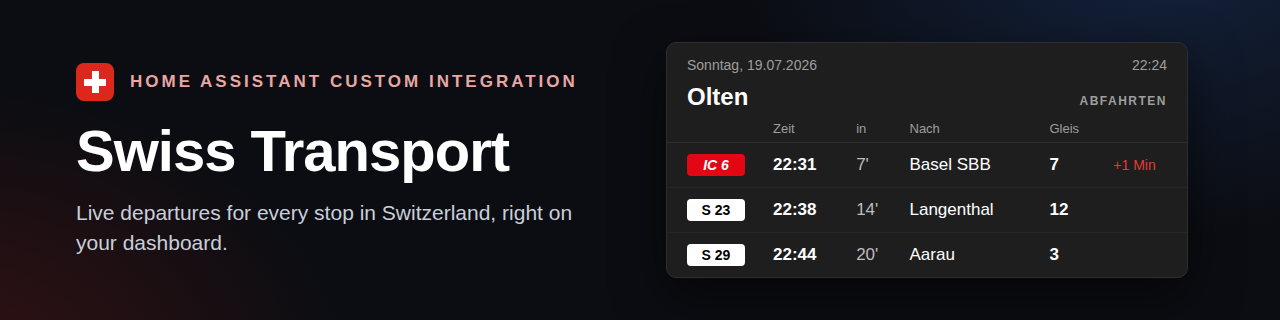
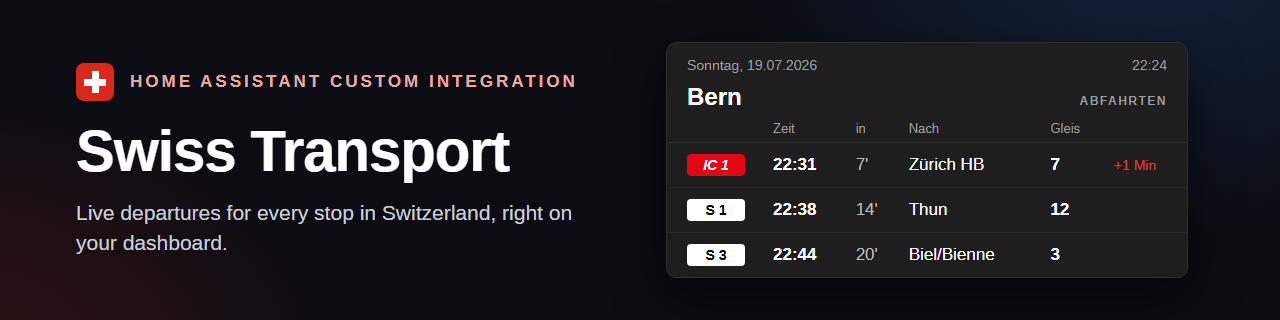
README header and examples refreshed

diff --git a/docs/readme-header-source.html b/docs/readme-header-source.html
@@ -25,12 +25,12 @@
   </div>
   <div class="card">
     <div class="meta"><span>Sonntag, 19.07.2026</span><span>22:24</span></div>
-    <div class="head"><span class="station">Olten</span><span class="type">ABFAHRTEN</span></div>
+    <div class="head"><span class="station">Bern</span><span class="type">ABFAHRTEN</span></div>
     <table>
       <tr><th class="col-badge"></th><th>Zeit</th><th>in</th><th>Nach</th><th>Gleis</th><th></th></tr>
-      <tr><td class="col-badge"><span class="badge b-ic">IC 6</span></td><td class="t-zeit">22:31</td><td class="t-in">7'</td><td>Basel SBB</td><td class="t-gleis">7</td><td class="hint">+1 Min</td></tr>
-      <tr><td class="col-badge"><span class="badge b-s">S 23</span></td><td class="t-zeit">22:38</td><td class="t-in">14'</td><td>Langenthal</td><td class="t-gleis">12</td><td></td></tr>
-      <tr><td class="col-badge"><span class="badge b-s">S 29</span></td><td class="t-zeit">22:44</td><td class="t-in">20'</td><td>Aarau</td><td class="t-gleis">3</td><td></td></tr>
+      <tr><td class="col-badge"><span class="badge b-ic">IC 1</span></td><td class="t-zeit">22:31</td><td class="t-in">7'</td><td>Zürich HB</td><td class="t-gleis">7</td><td class="hint">+1 Min</td></tr>
+      <tr><td class="col-badge"><span class="badge b-s">S 1</span></td><td class="t-zeit">22:38</td><td class="t-in">14'</td><td>Thun</td><td class="t-gleis">12</td><td></td></tr>
+      <tr><td class="col-badge"><span class="badge b-s">S 3</span></td><td class="t-zeit">22:44</td><td class="t-in">20'</td><td>Biel/Bienne</td><td class="t-gleis">3</td><td></td></tr>
     </table>
   </div>
 </body></html>

diff --git a/tests/test_config_flow.py b/tests/test_config_flow.py
@@ -25,7 +25,7 @@ from custom_components.swiss_transport.const import (
 from custom_components.swiss_transport.coordinator import OjpAuthError
 
 STATIONS = {
-    "olten": [{"id": "8500218", "name": "Olten"}, {"id": "8500219", "name": "Olten Hammer"}],
+    "luzern": [{"id": "8505000", "name": "Luzern"}, {"id": "8505001", "name": "Luzern Verkehrshaus"}],
     "bern": [{"id": "8507000", "name": "Bern"}],
     "chur": [{"id": "8509000", "name": "Chur"}],
 }
@@ -46,18 +46,18 @@ async def test_departure_board_setup(hass: HomeAssistant, enable_custom_integrat
     assert result["step_id"] == "user"
     result = await hass.config_entries.flow.async_configure(result["flow_id"], {"mode": "station"})
     assert result["step_id"] == "station"
-    result = await hass.config_entries.flow.async_configure(result["flow_id"], {"query": "Olten"})
+    result = await hass.config_entries.flow.async_configure(result["flow_id"], {"query": "Luzern"})
     assert result["step_id"] == "pick"
     result = await hass.config_entries.flow.async_configure(
-        result["flow_id"], {CONF_STATION_ID: "8500218", CONF_LIMIT: 5, "transportations": ["train"], "ojp_token": ""}
+        result["flow_id"], {CONF_STATION_ID: "8505000", CONF_LIMIT: 5, "transportations": ["train"], "ojp_token": ""}
     )
     assert result["type"] is FlowResultType.CREATE_ENTRY
     assert result["data"][CONF_ENTRY_TYPE] == ENTRY_TYPE_STATION
-    assert result["data"][CONF_STATION_ID] == "8500218"
-    assert result["data"][CONF_STATION_NAME] == "Olten"
+    assert result["data"][CONF_STATION_ID] == "8505000"
+    assert result["data"][CONF_STATION_NAME] == "Luzern"
     assert result["data"][CONF_LIMIT] == 5
     assert "ojp_token" not in result["data"]
-    assert result["result"].unique_id == "station_8500218"
+    assert result["result"].unique_id == "station_8505000"
 
 
 async def test_no_station_found_shows_error(hass: HomeAssistant, enable_custom_integrations, fake_search) -> None:
@@ -72,22 +72,22 @@ async def test_no_station_found_shows_error(hass: HomeAssistant, enable_custom_i
 async def test_rejected_realtime_token_is_a_form_error(hass: HomeAssistant, enable_custom_integrations, fake_search) -> None:
     result = await hass.config_entries.flow.async_init(DOMAIN, context={"source": config_entries.SOURCE_USER})
     result = await hass.config_entries.flow.async_configure(result["flow_id"], {"mode": "station"})
-    result = await hass.config_entries.flow.async_configure(result["flow_id"], {"query": "Olten"})
+    result = await hass.config_entries.flow.async_configure(result["flow_id"], {"query": "Luzern"})
     with patch("custom_components.swiss_transport.config_flow.async_validate_ojp_token", side_effect=OjpAuthError(401)):
         result = await hass.config_entries.flow.async_configure(
-            result["flow_id"], {CONF_STATION_ID: "8500218", CONF_LIMIT: 5, "transportations": [], "ojp_token": "bad-token"}
+            result["flow_id"], {CONF_STATION_ID: "8505000", CONF_LIMIT: 5, "transportations": [], "ojp_token": "bad-token"}
         )
     assert result["type"] is FlowResultType.FORM
     assert result["errors"] == {"base": "invalid_auth"}
 
 
 async def test_same_station_twice_is_refused(hass: HomeAssistant, enable_custom_integrations, fake_search) -> None:
-    MockConfigEntry(domain=DOMAIN, unique_id="station_8500218", title="Olten", data={CONF_ENTRY_TYPE: ENTRY_TYPE_STATION, CONF_STATION_ID: "8500218"}).add_to_hass(hass)
+    MockConfigEntry(domain=DOMAIN, unique_id="station_8505000", title="Luzern", data={CONF_ENTRY_TYPE: ENTRY_TYPE_STATION, CONF_STATION_ID: "8505000"}).add_to_hass(hass)
     result = await hass.config_entries.flow.async_init(DOMAIN, context={"source": config_entries.SOURCE_USER})
     result = await hass.config_entries.flow.async_configure(result["flow_id"], {"mode": "station"})
-    result = await hass.config_entries.flow.async_configure(result["flow_id"], {"query": "Olten"})
+    result = await hass.config_entries.flow.async_configure(result["flow_id"], {"query": "Luzern"})
     result = await hass.config_entries.flow.async_configure(
-        result["flow_id"], {CONF_STATION_ID: "8500218", CONF_LIMIT: 5, "transportations": [], "ojp_token": ""}
+        result["flow_id"], {CONF_STATION_ID: "8505000", CONF_LIMIT: 5, "transportations": [], "ojp_token": ""}
     )
     assert result["type"] is FlowResultType.ABORT
     assert result["reason"] == "already_configured"
@@ -111,8 +111,8 @@ async def test_connection_setup(hass: HomeAssistant, enable_custom_integrations,
 
 async def test_reconfigure_moves_the_board_to_another_stop(hass: HomeAssistant, enable_custom_integrations, fake_search) -> None:
     entry = MockConfigEntry(
-        domain=DOMAIN, unique_id="station_8500218", title="Olten",
-        data={CONF_ENTRY_TYPE: ENTRY_TYPE_STATION, CONF_STATION_ID: "8500218", CONF_STATION_NAME: "Olten", CONF_LIMIT: 5, "transportations": []},
+        domain=DOMAIN, unique_id="station_8505000", title="Luzern",
+        data={CONF_ENTRY_TYPE: ENTRY_TYPE_STATION, CONF_STATION_ID: "8505000", CONF_STATION_NAME: "Luzern", CONF_LIMIT: 5, "transportations": []},
         options={CONF_LIMIT: 8},
     )
     entry.add_to_hass(hass)

diff --git a/tests/test_coordinator.py b/tests/test_coordinator.py
@@ -68,7 +68,7 @@ def test_connection_legs_and_changes():
         "duration": "00d01:30:00", "transfers": 1, "products": ["IC 8", "S 9"],
         "sections": [
             {"journey": {"category": "IC", "number": "8", "to": "Zürich HB"},
-             "departure": {"station": {"name": "Olten"}, "platform": "4"}, "arrival": {"station": {"name": "Zürich HB"}, "platform": "33"}},
+             "departure": {"station": {"name": "Luzern"}, "platform": "4"}, "arrival": {"station": {"name": "Zürich HB"}, "platform": "33"}},
             {"journey": None, "walk": {"duration": 300}},
             {"journey": {"category": "S", "number": "9", "to": "Uster"},
              "departure": {"station": {"name": "Zürich HB"}, "platform": "43"}, "arrival": {"station": {"name": "Uster"}, "platform": "2"}},
@@ -100,7 +100,7 @@ OJP_XML = """<?xml version="1.0" encoding="UTF-8"?>
  <OJPResponse><siri:ServiceDelivery><OJPStopEventDelivery>
   <PtSituation><siri:Summary>x</siri:Summary>
     <siri:PassengerInformationAction><siri:TextualContent><siri:SummaryContent>
-      <siri:SummaryText>Olten: Gleisänderung wegen Bauarbeiten</siri:SummaryText>
+      <siri:SummaryText>Luzern: Gleisänderung wegen Bauarbeiten</siri:SummaryText>
     </siri:SummaryContent></siri:TextualContent></siri:PassengerInformationAction>
   </PtSituation>
   <StopEventResult><StopEvent>
@@ -123,7 +123,7 @@ OJP_XML = """<?xml version="1.0" encoding="UTF-8"?>
 
 def test_ojp_stationboard_parser():
     ojp = _parse_ojp_stationboard(OJP_XML)
-    assert ojp["alerts"] == ["Olten: Gleisänderung wegen Bauarbeiten"]
+    assert ojp["alerts"] == ["Luzern: Gleisänderung wegen Bauarbeiten"]
     planned = _ojp_iso_to_ts("2026-11-09T06:12:00Z")
     events = ojp["events"][planned]
     assert len(events) == 2
@@ -150,7 +150,7 @@ def test_ojp_overlay_matches_by_time_and_destination():
     assert basel["cancelled"] is True and basel["platform"] == "3"
     assert "cancelled" not in bern  # no real-time row for it
     assert board["realtime"] is True
-    assert board["alerts"] == ["Olten: Gleisänderung wegen Bauarbeiten"]
+    assert board["alerts"] == ["Luzern: Gleisänderung wegen Bauarbeiten"]
 
 
 def test_rate_limit_backoff_only_on_429():

diff --git a/custom_components/swiss_transport/coordinator.py b/custom_components/swiss_transport/coordinator.py
@@ -43,7 +43,7 @@ _GEOCODE_HEADERS = {"User-Agent": "ha-swiss-transport (Home Assistant integratio
 
 async def async_reverse_geocode(hass: HomeAssistant, lat: float, lon: float) -> str | None:
     """Resolve a station's coordinates to a short human address
-    ('Tannwaldstrasse, 4600 Olten') via OpenStreetMap Nominatim. Called at
+    ('Hirschengraben, 3011 Bern') via OpenStreetMap Nominatim. Called at
     most once per station (cached in the coordinator), so it stays well
     within Nominatim's usage policy. Returns None on any failure — the card
     simply omits the line then."""

diff --git a/README.md b/README.md
@@ -32,7 +32,7 @@ When you add the integration you first choose a **mode** — a departure board o
 |---|---|---|
 | `sensor.swiss_transport_<from>_<to>_<tag>` | Sensor | State = the next connection's departure (timestamp). Attributes: `connections` (each with departure/arrival time and platform, delay, `duration_min`, `transfers`, the `products`/lines used, and `changes` — the transfer stations with arrival → onward platform), `connection_count`, from/to names and station ids. |
 
-`<station>`, `<from>` and `<to>` are the stop names as the timetable API returns them, slugified; `<tag>` is a short discriminator — the last four characters of the config entry id, lower-cased — that keeps two stops whose names slugify to the same text apart (say the railway station "Zürich HB" and a tram stop "Zürich, HB"). The board of Zürich HB is thus something like `sensor.swiss_transport_zurich_hb_k7q2`, the connection Olten → Zürich HB `sensor.swiss_transport_olten_zurich_hb_m3xz`. The integration suggests these object ids when an entity is first created, so they do not depend on your Home Assistant language — only the entity's displayed name ("Departures" / "Abfahrten") is localized. Entities created by versions before 1.4.0 keep the ids they have (without the tag). Like any entity, they can be renamed in the entity settings afterwards.
+`<station>`, `<from>` and `<to>` are the stop names as the timetable API returns them, slugified; `<tag>` is a short discriminator — the last four characters of the config entry id, lower-cased — that keeps two stops whose names slugify to the same text apart (say the railway station "Zürich HB" and a tram stop "Zürich, HB"). The board of Zürich HB is thus something like `sensor.swiss_transport_zurich_hb_k7q2`, the connection Bern → Zürich HB `sensor.swiss_transport_bern_zurich_hb_m3xz`. The integration suggests these object ids when an entity is first created, so they do not depend on your Home Assistant language — only the entity's displayed name ("Departures" / "Abfahrten") is localized. Entities created by versions before 1.4.0 keep the ids they have (without the tag). Like any entity, they can be renamed in the entity settings afterwards.
 
 Station boards refresh about every 90 seconds. Saved connections refresh every 5 minutes — the transport.opendata.ch API allows only 1000 connection queries per day, and the slower cadence keeps several saved routes comfortably within that quota. If the API ever answers with "too many requests" (HTTP 429), the affected entry pauses for 30 minutes and then resumes automatically.
 
@@ -69,7 +69,7 @@ mode_entity: select.swiss_transport_mode        # optional, follow timetable bro
 ```yaml
 type: custom:swiss-transport-connection-card
 entity: sensor.swiss_transport_<from>_<to>_<tag>
-title: Olten → Zürich HB   # optional
+title: Bern → Zürich HB    # optional
 style: sbb                 # optional, "sbb" or "classic" (see the departure board)
 datetime_entity: datetime.swiss_transport_time  # optional, follow timetable browsing
 mode_entity: select.swiss_transport_mode        # optional, follow timetable browsing
@@ -169,7 +169,7 @@ script:
       - action: swiss_transport.get_connections
         data:
           from: "Zürich HB"
-          to: "Olten"
+          to: "Bern"
           limit: 3
         response_variable: result
       - action: notify.mobile_app_phone
@@ -208,7 +208,7 @@ Both target the integration's own sensors (pick an entity, the stop's device or 
 triggers:
   - trigger: swiss_transport.departure_delayed
     target:
-      entity_id: sensor.swiss_transport_olten_zurich_hb_m3xz
+      entity_id: sensor.swiss_transport_bern_zurich_hb_m3xz
     options:
       minimum_delay: 5
 ```
@@ -221,7 +221,7 @@ On Home Assistant 2026.11 or newer the integration also adds two conditions: **N
 conditions:
   - condition: swiss_transport.is_departure_delayed
     target:
-      entity_id: sensor.swiss_transport_olten_zurich_hb_m3xz
+      entity_id: sensor.swiss_transport_bern_zurich_hb_m3xz
     options:
       minimum_delay: 3
 ```
